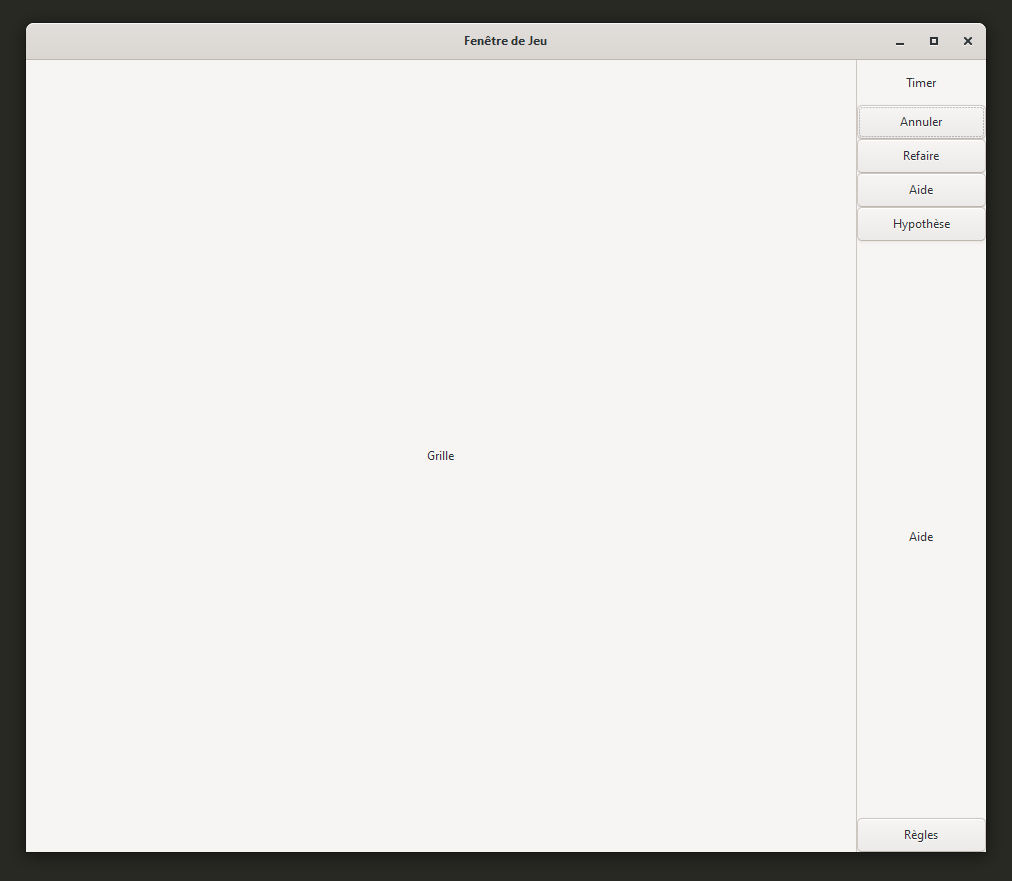
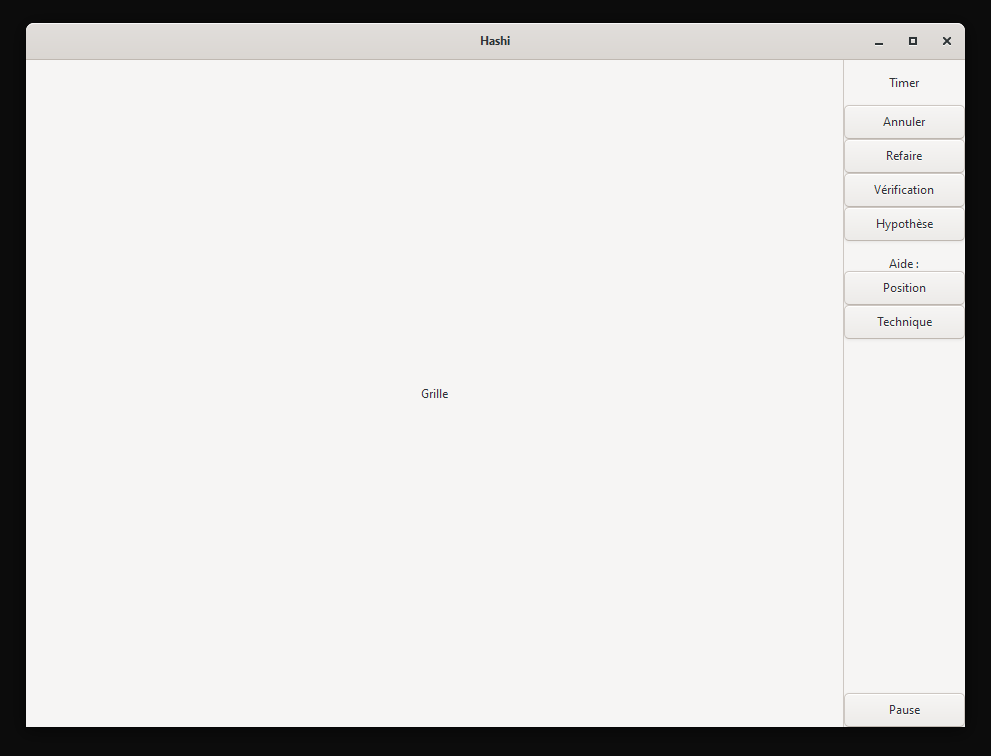
maj après réunion

Changed region(s): [[0.0, 0.0, 1.0, 1.0], [0.8476, 0.3347, 0.9384, 0.4563], [0.4238, 0.5172, 0.4541, 0.5476]]

diff --git a/SelectionUtilisateur.rb b/SelectionUtilisateur.rb
@@ -10,36 +10,21 @@ class SelectionUtilisateur < Gtk::ScrolledWindow
 		grid.column_spacing = 20
 		grid.margin = 5
 
-		l = Gtk::Button.new(label: "Jacoboni")
+		l = Gtk::Button.new(label: "Utilisateur 1")
 		l.expand = true
 		grid.attach(l, 0, 0, 1, 1)
-		l = Gtk::Button.new(label: "ZiZeppelin")
+		l = Gtk::Button.new(label: "Utilisateur 2")
 		l.expand = true
 		grid.attach(l, 1, 0, 1, 1)
-		l = Gtk::Button.new(label: "Jacoboni")
+		l = Gtk::Button.new(label: "Utilisateur 3")
 		l.expand = true
 		grid.attach(l, 0, 1, 1, 1)
-		l = Gtk::Button.new(label: "ZiZeppelin")
+		l = Gtk::Button.new(label: "Utilisateur 4")
 		l.expand = true
 		grid.attach(l, 1, 1, 1, 1)
-		l = Gtk::Button.new(label: "Jacoboni")
+		l = Gtk::Button.new(label: "Utilisateur 5")
 		l.expand = true
 		grid.attach(l, 0, 2, 1, 1)
-		l = Gtk::Button.new(label: "Jacoboni")
-		l.expand = true
-		grid.attach(l, 1, 2, 1, 1)
-		l = Gtk::Button.new(label: "ZiZeppelin")
-		l.expand = true
-		grid.attach(l, 0, 3, 1, 1)
-		l = Gtk::Button.new(label: "ZiZeppelin")
-		l.expand = true
-		grid.attach(l, 1, 3, 1, 1)
-		l = Gtk::Button.new(label: "ZiZeppelin")
-		l.expand = true
-		grid.attach(l, 0, 4, 1, 1)
-		l = Gtk::Button.new(label: "ZiZeppelin")
-		l.expand = true
-		grid.attach(l, 1, 4, 1, 1)
 
 		self.add(grid)
 	end

diff --git a/Jeu.rb b/Jeu.rb
@@ -35,10 +35,10 @@ class Jeu < Gtk::Window
 		box.add(Gtk::Label.new("Aide :"))
 		box.add(Gtk::Button.new(:label => "Position"))
 		box.add(Gtk::Button.new(:label => "Technique"))
-		c = Gtk::Label.new("Il y a un 3 dans la grille avec seulement 2 voisins, vous pouvez le relier avec un trait à chacun des deux voisins")
-		c.line_wrap = true;
-		c.margin_top = 20
-		box.add(c)
+		#c = Gtk::Label.new("Il y a un 3 dans la grille avec seulement 2 voisins, vous pouvez le relier avec un trait à chacun des deux voisins")
+		#c.line_wrap = true;
+		#c.margin_top = 20
+		#box.add(c)
 		boxVerticale.add(box)
 		c = Gtk::Button.new(:label => "Pause")
 		boxVerticale.add(c)
